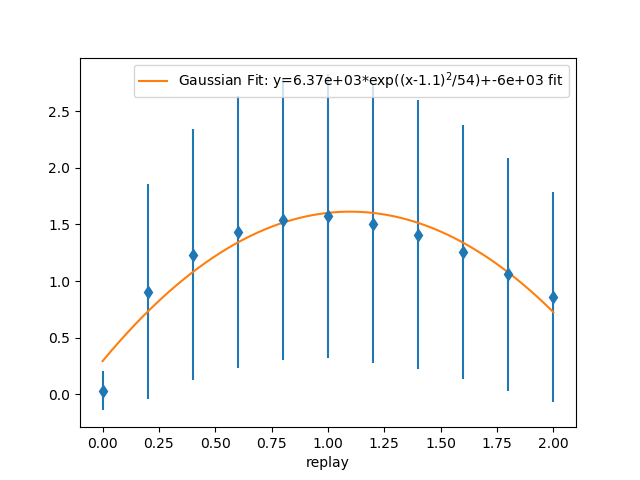
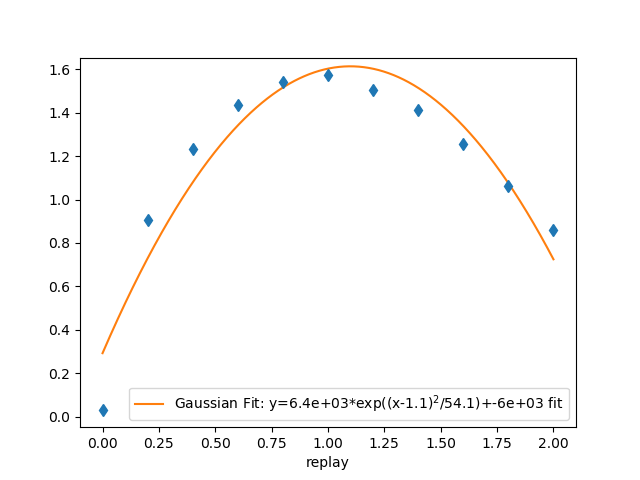
Include uncertainties in log files

diff --git a/general/scans/scans.py b/general/scans/scans.py
@@ -14,7 +14,7 @@ from collections import Iterable, OrderedDict
 import numpy as np
 from six import add_metaclass
 import six
-from .monoid import ListOfMonoids, Monoid, Sum
+from .monoid import ListOfMonoids, Monoid, Average
 from .detector import DetectorManager
 from .fit import Fit, ExactFit
 
@@ -25,7 +25,6 @@ except ImportError:
     # We must be in a test environment
     from .mocks import g
 from .multiplot import NBPlot
-from .monoid import Average
 
 TIME_KEYS = ["frames", "uamps", "seconds", "minutes", "hours"]
 
@@ -173,7 +172,8 @@ class Scan(object):
                     else:
                         xs.append(position)
                         ys.append(value)
-                    logfile.write("{}\t{}\n".format(xs[-1], str(ys[-1])))
+                    logfile.write("{}\t{}\t{}\n".format(xs[-1], str(ys[-1]),
+                                                        str(ys[-1].err())))
                     axis.clear()
                     axis.set_xlabel(label)
                     if isinstance(self.min(), tuple):
@@ -422,7 +422,8 @@ class ProductScan(Scan):
                         values[ys.index(y)][xs.index(x)] += value
                     else:
                         values[ys.index(y)][xs.index(x)] = value
-                    logfile.write("{}\t{}\n".format(xs[-1], str(values[-1])))
+                    logfile.write(
+                        "{}\t{}\n".format(xs[-1], str(values[-1])))
                     axis.clear()
                     axis.set_xlabel(keys[1])
                     axis.set_ylabel(keys[0])
@@ -580,7 +581,7 @@ actually detecting anything, we can run the code much simpler instead
 of trying to fake a detector."""
         action_remainder = None
         xs = self.xs
-        ys = ListOfMonoids(map(Sum, self.ys))
+        ys = ListOfMonoids(self.ys)
         axis = NBPlot()
         axis.clear()
         if isinstance(self.min(), tuple):
@@ -618,5 +619,6 @@ def last_scan(path=None, axis="replay"):
         path = max([f for f in os.listdir(os.getcwd()) if f[-4:] == ".dat"],
                    key=os.path.getctime)
     with open(path, "r") as infile:
-        data = np.loadtxt(infile)
-        return ReplayScan(data[:, 0], data[:, 1], axis)
+        xs, ys, errs = np.loadtxt(infile, unpack=True)
+        ys = [Average((y/e)**2, y/e**2) for y, e in zip(ys, errs)]
+        return ReplayScan(xs, ys, axis)
